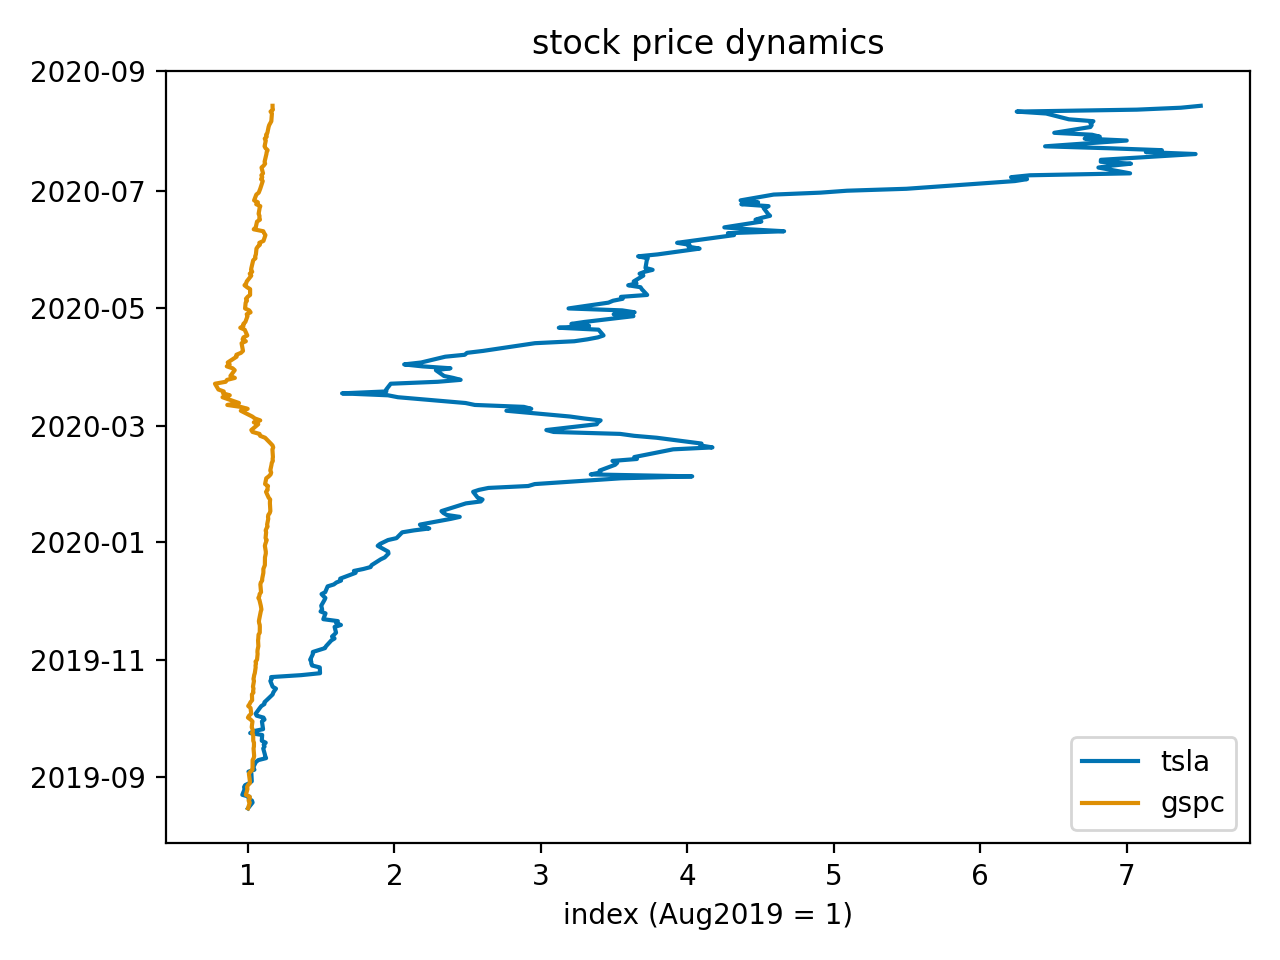
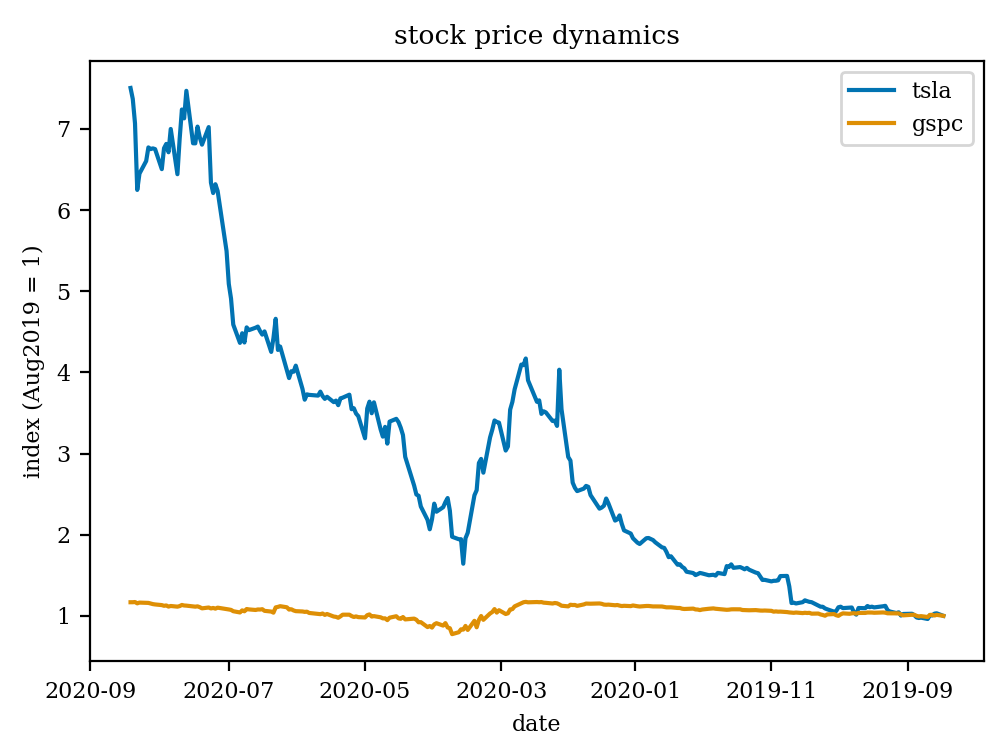
change time flow direction

Changed region(s): [[0.0, 0.0304, 0.9841, 0.9735], [0.1538, 0.3651, 0.1845, 0.4259]]

diff --git a/visualization.md b/visualization.md
@@ -8,18 +8,20 @@ Let's say you are presenting your research findings which are that Tesla has out
 ... or is it really? As the brain of an audience member starts to make sense out of the slide, it (the brain) has to process the following:
 *   the concept of a chart;
 *   the concept of an index;
-*   pictorial representation of time flow direction;
+*   spacial representation of time flow;
 *   colormap;
-*   date representation;
+*   representation of dates;
 *   ...
 *   \[a million other things\]
 *   ...
 *   the fact that Tesla has outperformed S\&P500.
 
-The problem with the chart above is the unusual pictorial representation of time: therein it flows upwards instead of left-to-right as the overwhelming majority of us are accustomed to. This custom is by no means instinct in humans, but rather a cultural phenomenon, as certain peoples, when asked to point in the direction of time flow, would not gesture in the same left-to-right way. Anyway, had I chosen the 'usual' time flow direction, there would have been less confusion, and the brain would have spent more resources on the information that I wanted to communicate in the first place, namely, the success of Tesla.
+One immediate problem with the chart above is the unusual spacial representation of time: therein it flows right-to-left instead of left-to-right as the overwhelming majority of us are accustomed to. This custom is by no means instinct in all humans, but rather internalized in the first years of our life in a culture-specific way: indeed, certain peoples such as Aymara, when asked to point in the direction of time flow, would place past events to the left of future ones.
 
 Although rather artificial, the example highlights several things to keep in mind when visualizing research findings:
 *   there is what can heuristically be called **primary** and **secondary** information on every slide;
 *   the brain needs to process both;
 *   brain resources are limited;
-*   there are certain learned features the brain uses to economize.
+*   there are certain pre-wired structures the brain uses to economize.
+
+It is the presenter's task to understand these concepts and be informed of the wiring of the audience's brains to foster concentration on the primary information. Which would maybe imply drawing charts differently for Aymara speakers.
